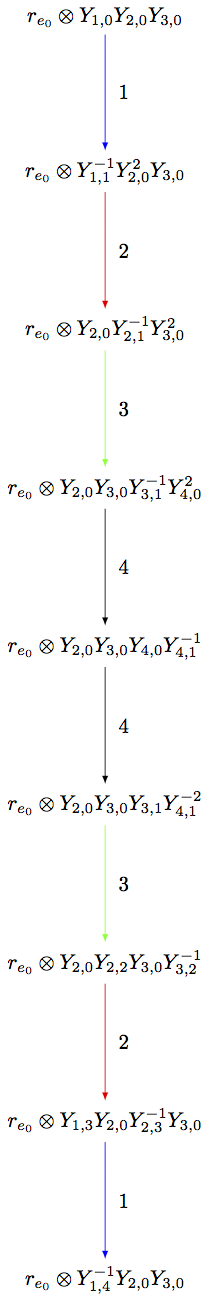
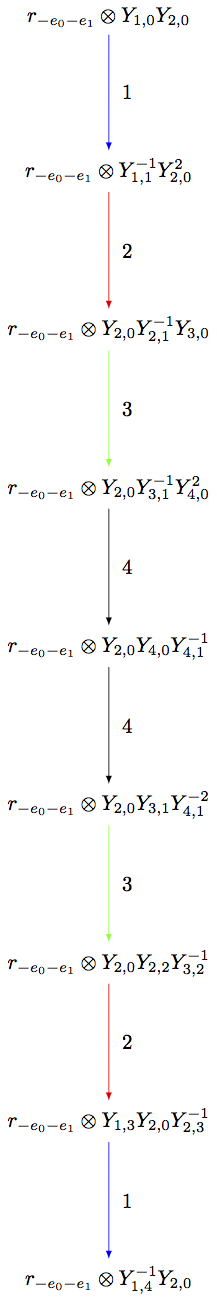
doctests passed and failed examples fixed

diff --git a/src/doc/en/thematic_tutorials/lie/elementary_crystals.rst b/src/doc/en/thematic_tutorials/lie/elementary_crystals.rst
@@ -84,26 +84,26 @@ element crystal whose crystal structure is defined by
 Note `C \cong B(0)`, where `B(0)` is the highest weight crystal of highest
 weight `0`.
 
-The crystal `T_\lambda \otimes C` is useful when finding subcrystals inside
-irreducible highest weight crystals `B(\mu)` where `\mu` is larger than `\lambda`
-in the lexicographic order.  For example::
+The crystal `C \otimes T_\mu` is useful when finding subcrystals inside
+irreducible highest weight crystals `B(\lambda)` where `\lambda` is larger than
+`\mu` in the lexicographic order.  For example::
 
     sage: La = RootSystem("C2").weight_lattice().fundamental_weights()
     sage: h = RootSystem("C2").weight_lattice().simple_coroots()
     sage: T = crystals.elementary.T("C2",2*La[1])
     sage: C = crystals.elementary.Component("C2")
-    sage: B = crystals.TensorProduct(T,C)
+    sage: B = crystals.TensorProduct(C,T)
     sage: b = B(C[0],T[0])
-    sage: for i in B.index_set(): print b.epsilon(i)
+    sage: for i in B.index_set(): print(b.epsilon(i))
     -2
     0
-    sage: for i in B.index_set(): print b.phi(i)
+    sage: for i in B.index_set(): print(b.phi(i))
     0
     0
-    sage: for i in B.index_set(): print b.f(i)
+    sage: for i in B.index_set(): print(b.f(i))
     None
     None
-    sage: for i in B.index_set(): print b.e(i)
+    sage: for i in B.index_set(): print(b.e(i))
     None
     None
 
@@ -139,19 +139,19 @@ original graph of `B`.
 
 For example, suppose `\mu \le \lambda` in lexicographic ordering on weights,
 and one wants to see `B(\mu)` as a subcrystal of `B(\lambda)`.  Then `B(\mu)`
-may be realized as the connected component of `R_\mu \otimes B(\lambda)`
-containing the highest weight `r_\lambda \otimes u_\lambda`, where `u_\lambda`
-is the highest weight vector in `B(\lambda)`::
+may be realized as the connected component of `R_{\mu-\lambda}\otimesB(\lambda)`
+containing the highest weight `r_{\mu-\lambda} \otimes u_\lambda`, where
+`u_\lambda` is the highest weight vector in `B(\lambda)`::
 
     sage: La = RootSystem(['B',4]).weight_lattice().fundamental_weights()
-    sage: Blambda = crystals.NakajimaMonomials(['B',4], La[1]+La[2]+La[3])
+    sage: Bla = crystals.NakajimaMonomials(['B',4], La[1]+La[2])
     sage: Bmu = crystals.NakajimaMonomials(['B',4], La[1])
-    sage: Rmu = crystals.elementary.R(['B',4], La[1])
-    sage: T = crystals.TensorProduct(Rmu,Blambda)
-    sage: S = T.subcrystal(generators=[T(Rmu[0],Blambda.highest_weight_vector())])
+    sage: R = crystals.elementary.R(['B',4], -La[2])
+    sage: T = crystals.TensorProduct(R,Bla)
+    sage: mg = mg = T(R[0], Bla.module_generators[0])
+    sage: S = T.subcrystal(generators=[mg])
     sage: G = T.digraph(subset=S)
-    sage: Gmu = Bmu.digraph()
-    sage: G.is_isomorphic(Gmu,edge_labels=True)
+    sage: Bmu.digraph().is_isomorphic(G, edge_labels=True)
     True
     sage: view(G, tightpage=True) # optional - dot2tex graphviz, not tested (opens external window)
 
